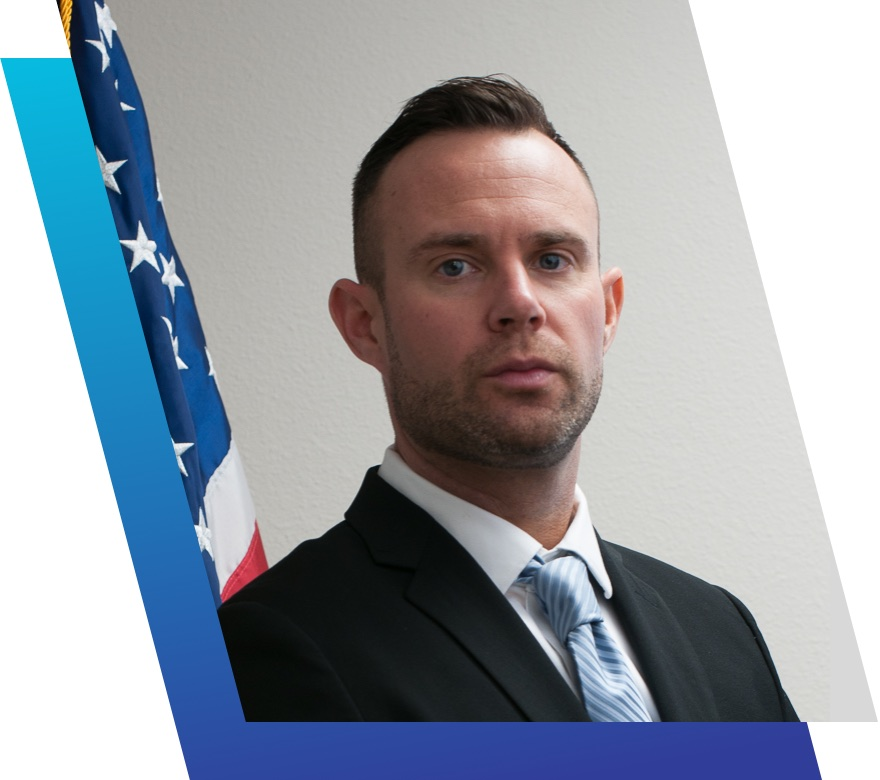
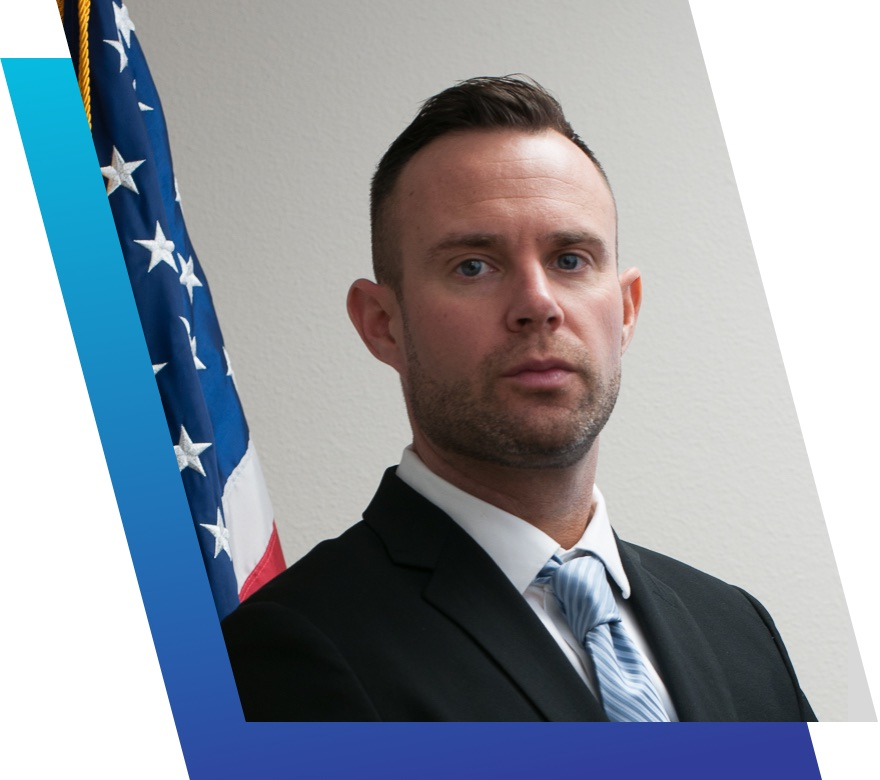
added James' photo and home bg

Changed region(s): [[0.0614, 0.0, 0.7977, 0.9231], [0.7977, 0.7385, 0.9511, 0.9231], [0.5216, 0.8, 0.6136, 0.9231]]

diff --git a/_site/assets/main.css b/_site/assets/main.css
@@ -7609,6 +7609,9 @@ footer {
       max-width: 33.3333333333%;
       margin-left: 8.3333333333%; } }
 
+@media (max-width: 767px) {
+  .senior-management {
+    text-align: center; } }
 .senior-management .row {
   padding-bottom: 2rem; }
   @media (min-width: 576px) {
@@ -7620,11 +7623,18 @@ footer {
   max-width: 100%; }
   @media (min-width: 576px) {
     .senior-management__photo {
+      margin-left: 8.3333333333%;
       flex: 0 0 33.3333333333%;
       width: 33.3333333333%;
       max-width: 33.3333333333%; } }
 .senior-management__photo-img {
   max-width: 100%; }
+  @media (max-width: 767px) {
+    .senior-management__photo-img {
+      max-width: 60%;
+      margin-left: auto;
+      margin-right: auto;
+      margin-bottom: 30px; } }
 .senior-management__row {
   margin-bottom: 1rem; }
   @media (min-width: 576px) {
@@ -7636,10 +7646,11 @@ footer {
   max-width: 100%; }
   @media (min-width: 576px) {
     .senior-management__info {
-      margin-left: 16.6666666667%;
-      flex: 0 0 50%;
-      width: 50%;
-      max-width: 50%; } }
+      margin-left: 8.3333333333%;
+      left: 8.3333333333%;
+      flex: 0 0 41.6666666667%;
+      width: 41.6666666667%;
+      max-width: 41.6666666667%; } }
 .senior-management__intro {
   flex: 0 0 100%;
   width: 100%;

diff --git a/_sass/_about.scss b/_sass/_about.scss
@@ -1,4 +1,7 @@
 .senior-management {
+  @include media-breakpoint-down(sm) {
+    text-align: center;
+  }
 
   .row {
     padding-bottom: 2rem;
@@ -10,12 +13,20 @@
   &__photo {
     @include make-col(12);
     @include media-breakpoint-up(sm) {
+      @include make-col-offset(1);
       @include make-col(4);
     }
   }
 
   &__photo-img {
     max-width: 100%;
+
+    @include media-breakpoint-down(sm) {
+      max-width: 60%;
+      margin-left: auto;
+      margin-right: auto;
+      margin-bottom: 30px;
+    }
   }
 
   &__row {
@@ -28,8 +39,9 @@
   &__info {
     @include make-col(12);
     @include media-breakpoint-up(sm) {
-      @include make-col-offset(2);
-      @include make-col(6);
+      @include make-col-offset(1);
+      @include make-col-push(1);
+      @include make-col(5);
     }
   }
 

diff --git a/_layouts/about.html b/_layouts/about.html
@@ -76,7 +76,7 @@ layout: default
 
       <div class="row senior-management__row">
         <div class="senior-management__photo">
-          <img src="{{ "/assets/img/management/eric-macgregor.jpg" | relative_url }}" alt="Engineering and IT" class="senior-management__photo-img" />
+          <img src="{{ "/assets/img/management/james-lasswell.jpg" | relative_url }}" alt="Engineering and IT" class="senior-management__photo-img" />
         </div>
         <div class="senior-management__info">
           <h3>James Lasswell</h3>

diff --git a/_site/about/index.html b/_site/about/index.html
@@ -130,7 +130,7 @@
 
       <div class="row senior-management__row">
         <div class="senior-management__photo">
-          <img src="/assets/img/management/eric-macgregor.jpg" alt="Engineering and IT" class="senior-management__photo-img" />
+          <img src="/assets/img/management/james-lasswell.jpg" alt="Engineering and IT" class="senior-management__photo-img" />
         </div>
         <div class="senior-management__info">
           <h3>James Lasswell</h3>
